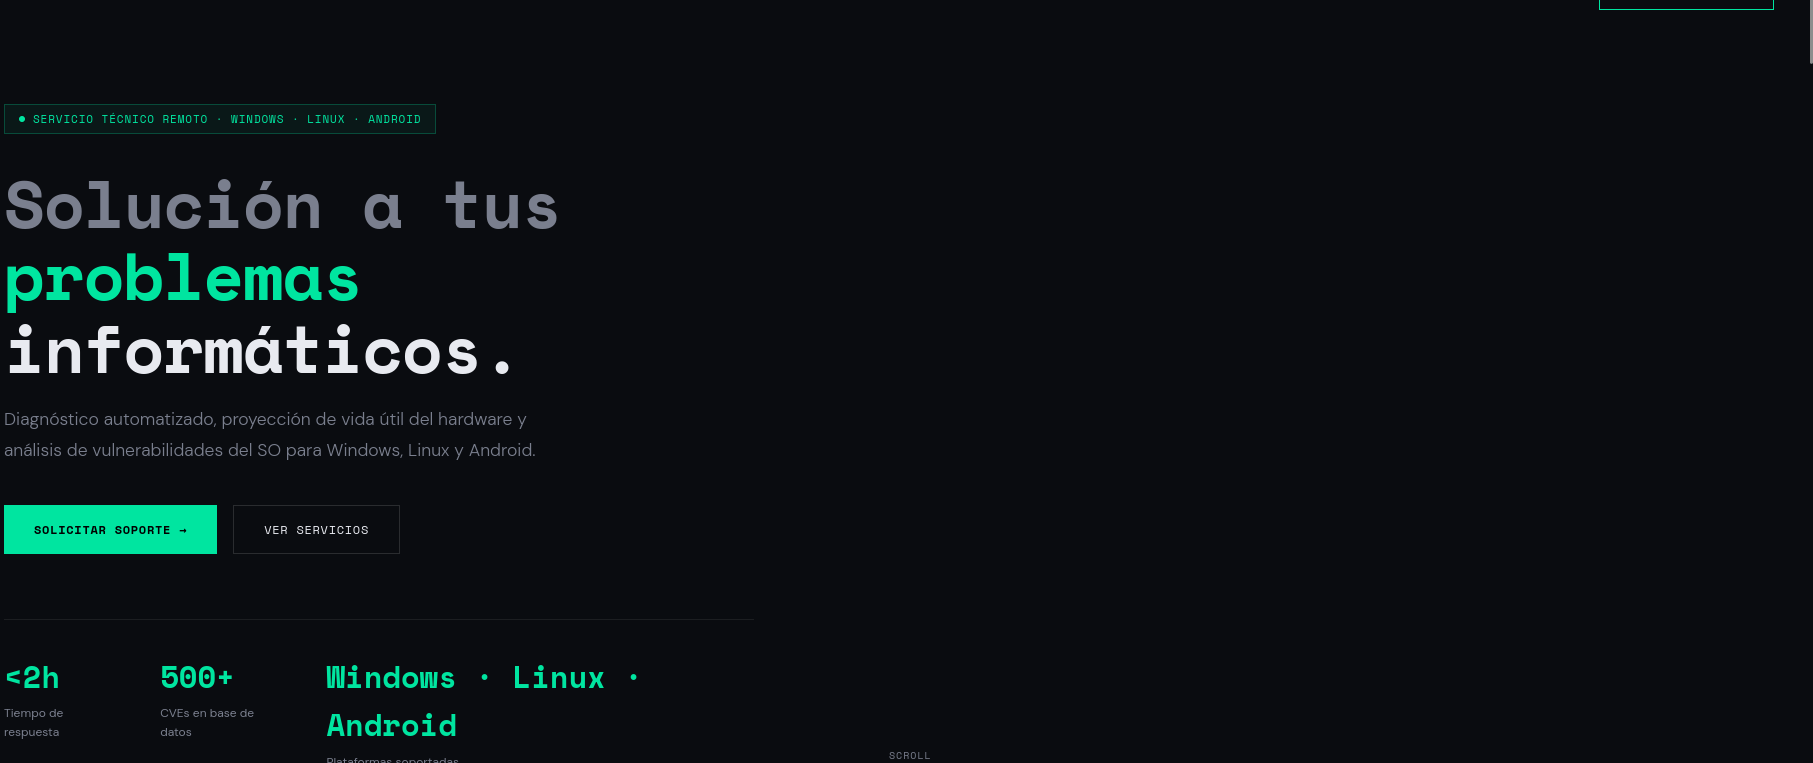
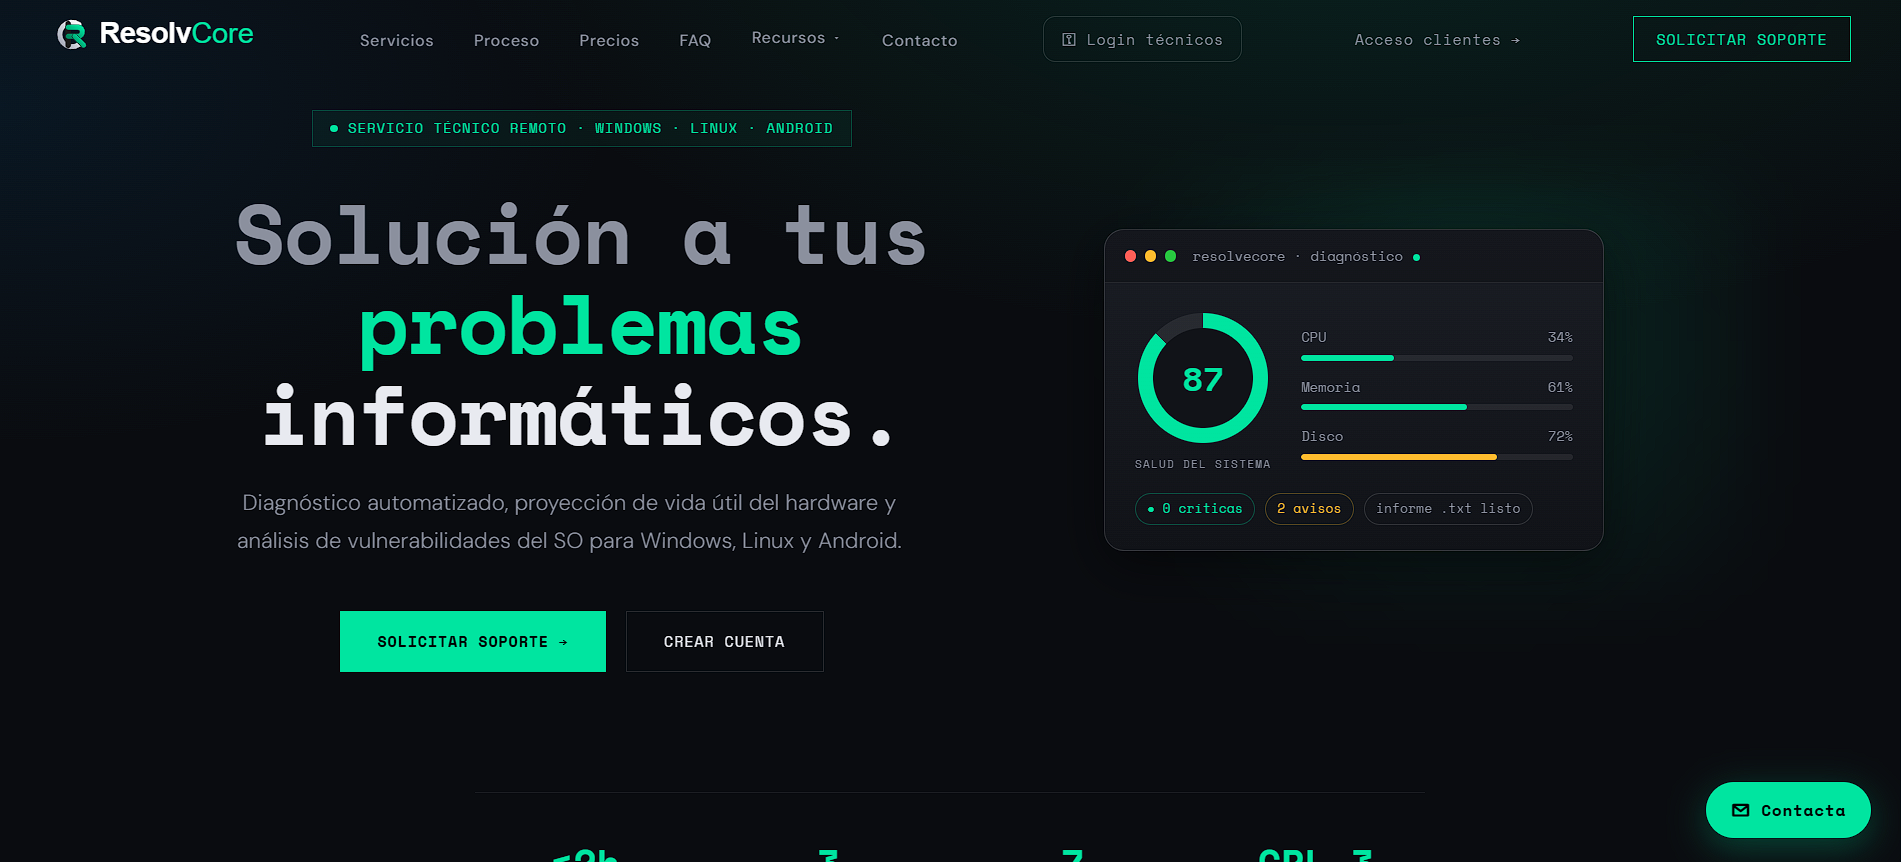
docs: add web interface screenshots to README documentation

diff --git a/README.md b/README.md
@@ -75,6 +75,16 @@
 <table>
 <tr>
 <td width="50%" align="center">
+<img src="docs/capturas/mar20-mantisbt-web/11_web-demo-interactiva-diagnostico.png" alt="Demo interactiva de diagnóstico" width="100%"><br>
+<sub><b>Demo interactiva</b> — simula el diagnóstico (terminal, score 0-100, CVEs) con datos de ejemplo</sub>
+</td>
+<td width="50%" align="center">
+<img src="docs/capturas/mar20-mantisbt-web/10_web-seccion-modulos.png" alt="Sección de módulos de la web" width="100%"><br>
+<sub><b>Módulos del servicio</b> — diagnóstico, optimización, CVE, panel multiplataforma, actualizaciones</sub>
+</td>
+</tr>
+<tr>
+<td width="50%" align="center">
 <img src="docs/capturas/mar20-mantisbt-web/01_web-resolvecore-homepage-hero.png" alt="Web pública ResolveCore" width="100%"><br>
 <sub><b>Web pública</b> — landing del servicio (tema dark custom, sin frameworks CSS)</sub>
 </td>
